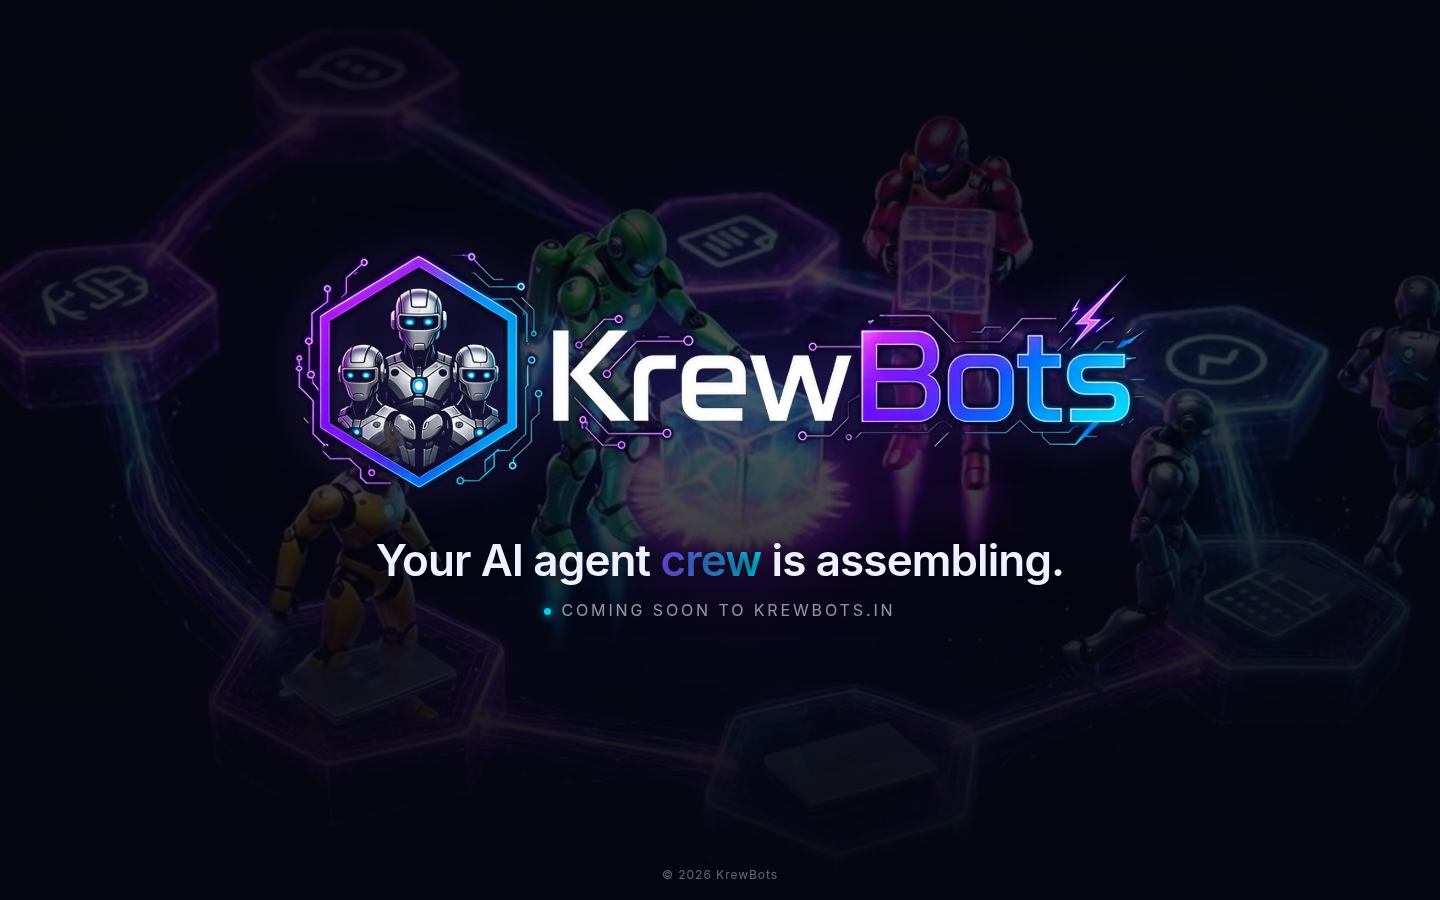
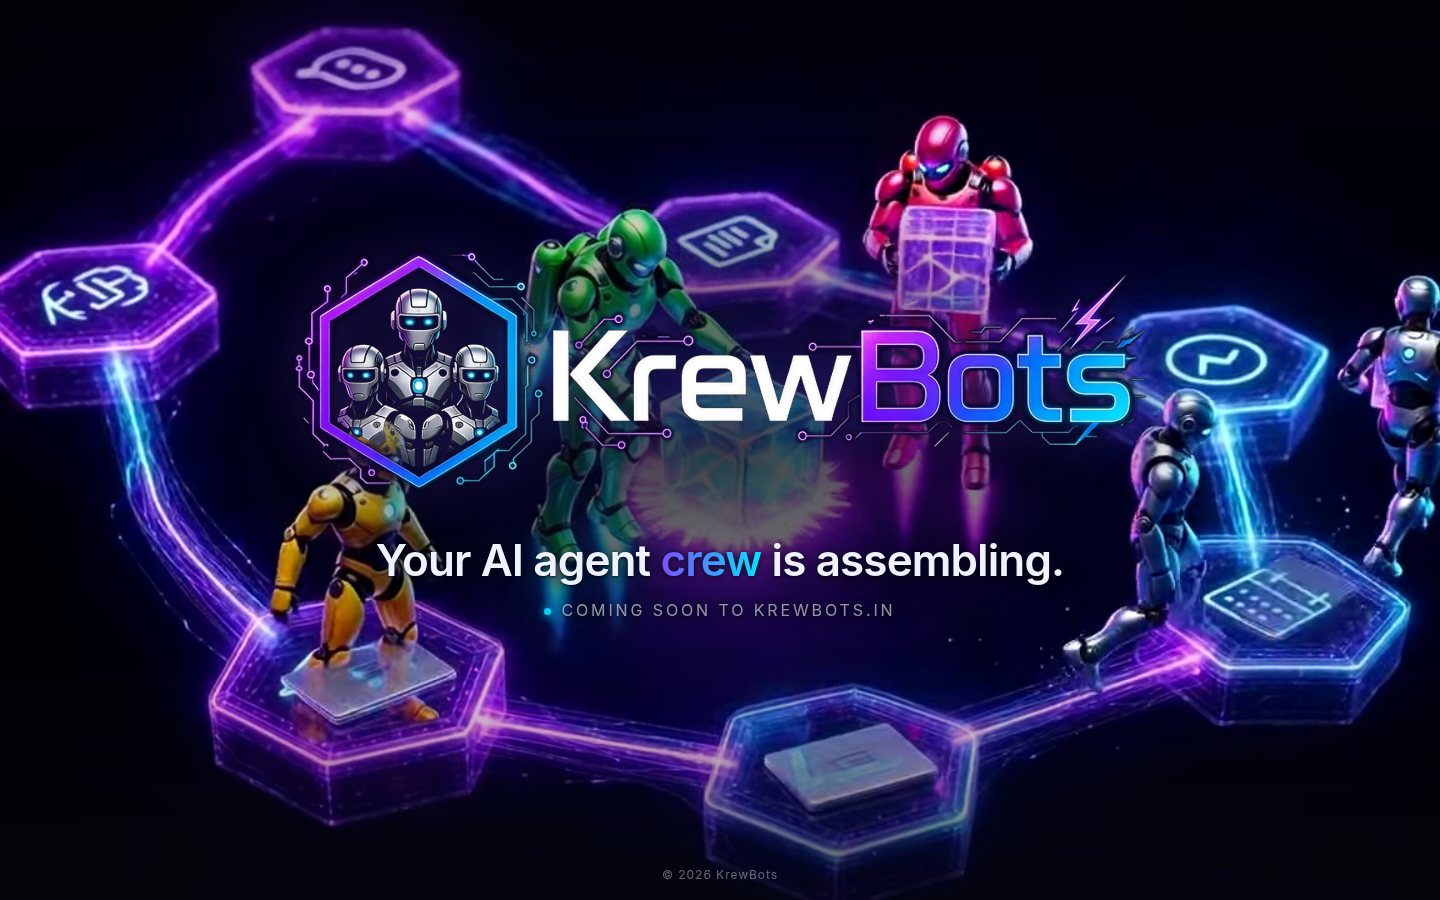
Coming soon: lighter overlay, localized text plate, vivid video, mobile text lower

diff --git a/index.html b/index.html
@@ -29,10 +29,14 @@ body{background:var(--bg);color:var(--t);font-family:"Inter",system-ui,-apple-sy
 .bgv{position:fixed;inset:0;z-index:0;overflow:hidden;background:#05060F url(/assets/video/robots-poster.jpg) center/cover no-repeat}
 .bgv video{position:absolute;inset:0;width:100%;height:100%;object-fit:cover;opacity:0;transition:opacity 1.2s cubic-bezier(.4,0,.2,1)}
 .bgv video.on{opacity:1}
-.shade{position:fixed;inset:0;z-index:0;pointer-events:none;background:radial-gradient(70% 55% at 50% 48%,rgba(5,6,15,.55),rgba(5,6,15,.78) 70%,rgba(5,6,15,.92)),linear-gradient(180deg,rgba(5,6,15,.6),rgba(5,6,15,.2) 40%,rgba(5,6,15,.85))}
+.bgv video{filter:saturate(1.15) contrast(1.05)}
+main::before{content:"";position:absolute;left:50%;top:50%;width:min(1000px,120vw);height:min(560px,70vh);transform:translate(-50%,-50%);z-index:-1;pointer-events:none;background:radial-gradient(closest-side,rgba(5,6,15,.78),rgba(5,6,15,.5) 55%,transparent)}
+@media (max-width:600px){body main{justify-content:flex-end;padding-bottom:96px}body main::before{top:auto;bottom:30px;transform:translateX(-50%);height:360px;background:radial-gradient(closest-side,rgba(5,6,15,.8),rgba(5,6,15,.55) 60%,transparent)}.bgv video{object-position:50% 40%}}
+.shade{position:fixed;inset:0;z-index:0;pointer-events:none;background:linear-gradient(180deg,rgba(5,6,15,.35),transparent 18%,transparent 72%,rgba(5,6,15,.7))}
 @media (max-aspect-ratio:3/4){.bgv{background-image:url(/assets/video/robots-poster-portrait.jpg)}}
-h1,p{text-shadow:0 2px 18px rgba(5,6,15,.9)}
-p{color:rgba(238,242,255,.78)}
+h1,p{text-shadow:0 1px 3px rgba(5,6,15,.95),0 2px 20px rgba(5,6,15,.9)}
+h1 span{text-shadow:none;filter:drop-shadow(0 1px 3px rgba(5,6,15,.95))}
+p{color:rgba(238,242,255,.92)}
 .glow{position:fixed;inset:0;z-index:0;pointer-events:none;background:radial-gradient(60% 45% at 50% 46%,rgba(124,77,255,.16),transparent 70%),radial-gradient(40% 30% at 62% 52%,rgba(0,229,255,.08),transparent 70%)}
 main{position:relative;z-index:1;min-height:100%;display:flex;flex-direction:column;align-items:center;justify-content:center;padding:32px 20px 80px;text-align:center}
 picture img{display:block;width:min(880px,94vw);height:auto;filter:drop-shadow(0 0 24px rgba(124,77,255,.25));animation:in 1.4s ease-out both}
